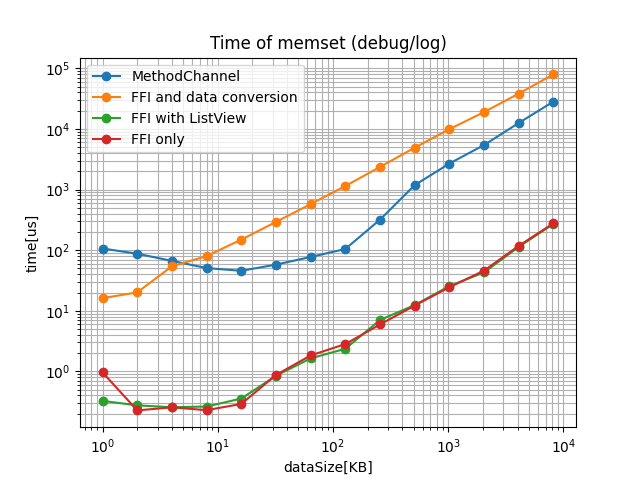
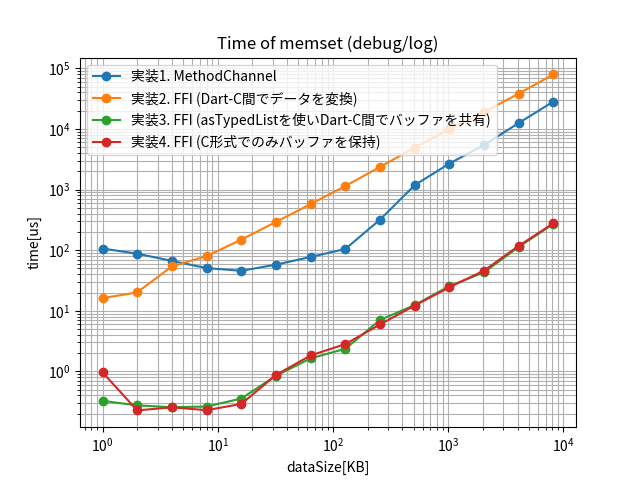
Update graph legend.

diff --git a/tool/draw_graph.py b/tool/draw_graph.py
@@ -1,6 +1,9 @@
 import sys
 import pandas as pd
 import matplotlib.pyplot as plt
+from matplotlib import rcParams
+rcParams['font.family'] = 'sans-serif'
+rcParams['font.sans-serif'] = ['Hiragino Maru Gothic Pro', 'Yu Gothic', 'Meirio', 'Takao', 'IPAexGothic', 'IPAPGothic', 'VL PGothic', 'Noto Sans CJK JP']
 
 df = pd.read_csv(sys.argv[1], encoding='UTF8')
 
@@ -11,8 +14,10 @@ if sys.argv[4] == 'log':
   ax.set_xscale('log')
   ax.set_yscale('log')
 
-for label in [('MethodChannelMemset', 'MethodChannel'), \
-  ('ffiMemsetAndConvert', 'FFI and data conversion'), ('ffiMemsetWithListView', 'FFI with ListView'), ('ffiMemset', 'FFI only')]:
+for label in [('MethodChannelMemset', '実装1. MethodChannel'), \
+  ('ffiMemsetAndConvert', '実装2. FFI (Dart-C間でデータを変換)'), \
+  ('ffiMemsetWithListView', '実装3. FFI (asTypedListを使いDart-C間でバッファを共有)'), \
+  ('ffiMemset', '実装4. FFI (C形式でのみバッファを保持)')]:
   series = df[df['type'] == label[0]]
   print(series)
   data_kb = series['dataSize[KB]']
